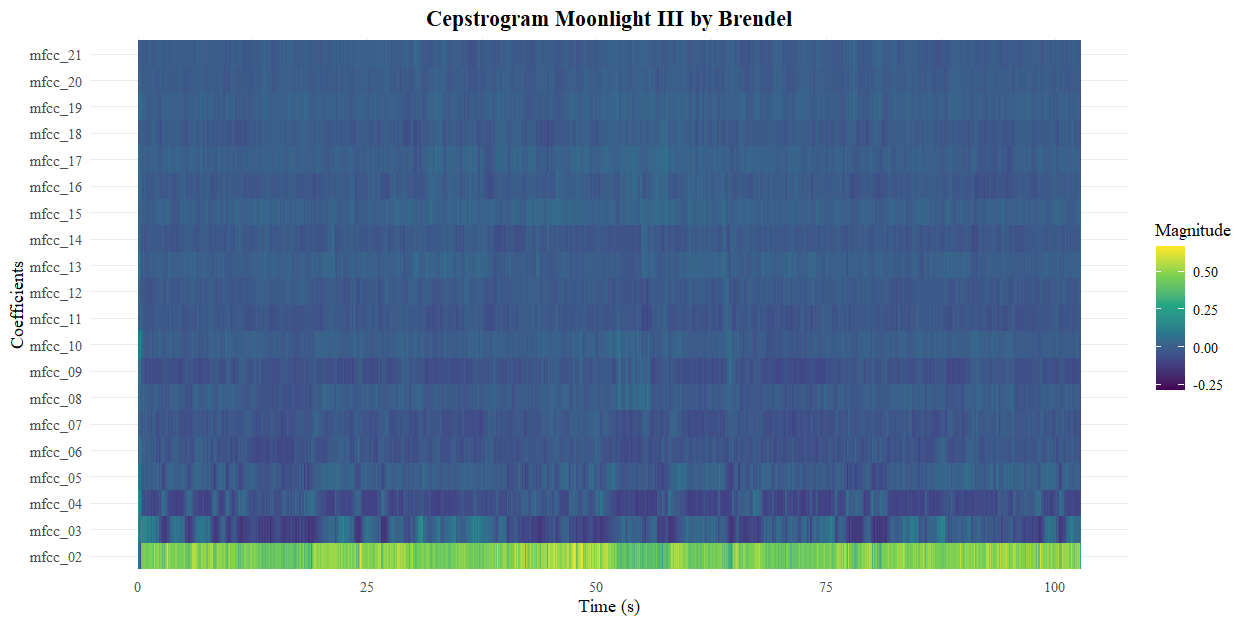
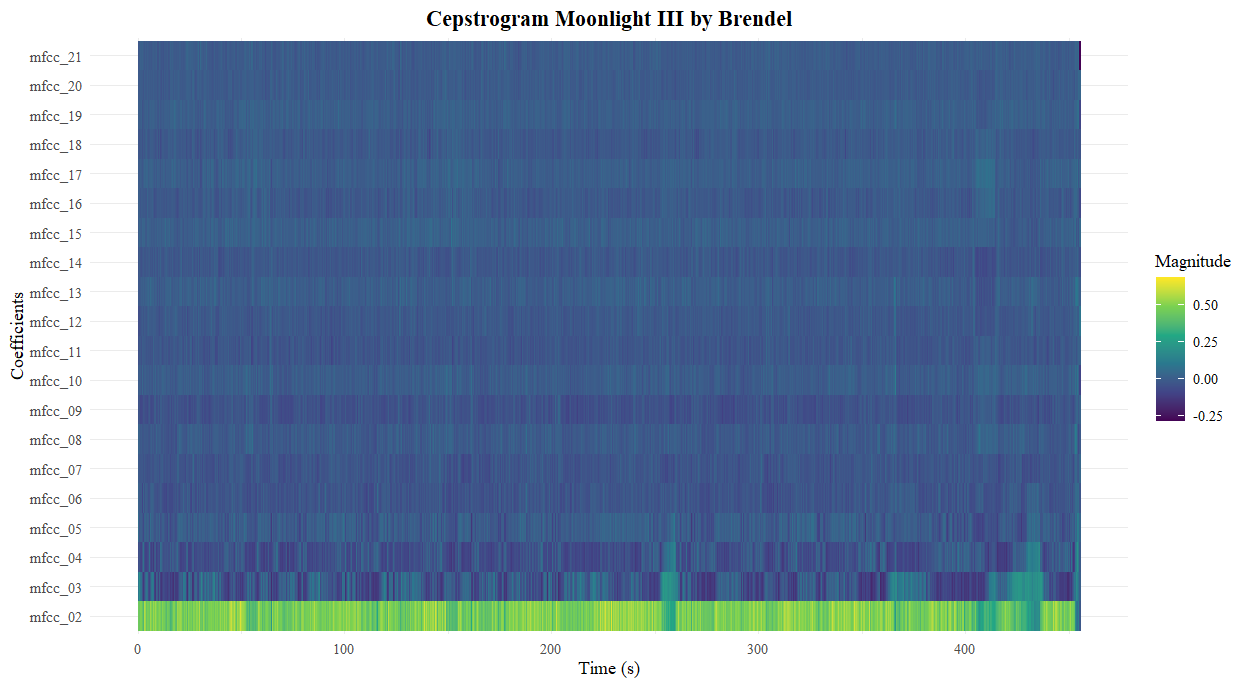
Fixed and text added

diff --git a/README.md b/README.md
@@ -13,7 +13,9 @@ Performance by Brendel. Normalisation: Manhattan*
 ![](cepstrogram_moonlight_III_brendel.png)
 
 As the name suggests, a piano sonata is played by one instrument, so not much variation is visible
-on the cepstrogram.
+on the cepstrogram. There are, however, some 'spikes' visible at around 250 second and near the end.
+These are moments in the piece when the piano is not or barely audible. This way other background noises
+are picked up and thus visible in the cepstrogram.
 
 ## Chromagram
 
@@ -32,7 +34,8 @@ This is when the piece switches to the key e♭-minor (during the second subject
 ## Self-Similarity Matrices
 
 Below are two Self-Similarity Matrices (SSM) of a performance by Brendel of the first movement of sonata no 14.
-The first one is based on timbre and the second one on pitch.
+The first one is based on timbre and the second one on pitch. Note: the one based on timbre only consists of 100 seconds of the recording.
+I have not had the time yet to get the full recording (it took forever to generate the plot).
 
 *Self-similarity matrix based on timbre of Beethoven's Moonlight Sonata (No. 14), 3rd movement. 
 Performance by Brendel. Normalisation: Euclidean. Distance: cosine.*
@@ -47,7 +50,10 @@ Performance by Brendel. Normalisation: Euclidean. Distance: cosine.*
 As mentioned before, the only instrument in the piece is a piano. That is why the SSM based on pitch
 looks unvarying (apart from the dark blue diagonal). There are, however, some yellow lines visible.
 
-The SSM based on pitch looks much different. To get more details, I reduced the 
-downsampling from every 50th frame (as in the SSM based on timbre) to every 10th frame.
-In comparison to the SSM based on timbre, there is a lot of variety in this one. This was also apperent from 
-the chromagram, as explained above. *[Explanation of the blocks and lines, corresponding to the expo, develop, recap]*
+The SSM based on pitch looks much different. In comparison to the SSM based on timbre, there is a lot of variety in this one. 
+This piece is in c♯-minor and in sonata form, which means that the exposition get's repeated. This happens at around a 100 seconds and a (faint) 
+blue diagonal line is visible at this point in the SSM. Around 200 seconds a block pattern can be seen (with a yellow outline),
+which marks the beginning of the development. A few bars after the beginning of the development, the piece shifts to f♯-minor.
+There is not a block-like structure visible for the development, which ends at around 265 seconds.
+Around 265 seconds the recapitulation starts with the first subject remaining unaltered. The second subject is
+now in the tonic (instead of g♯-minor as in the exposition).
